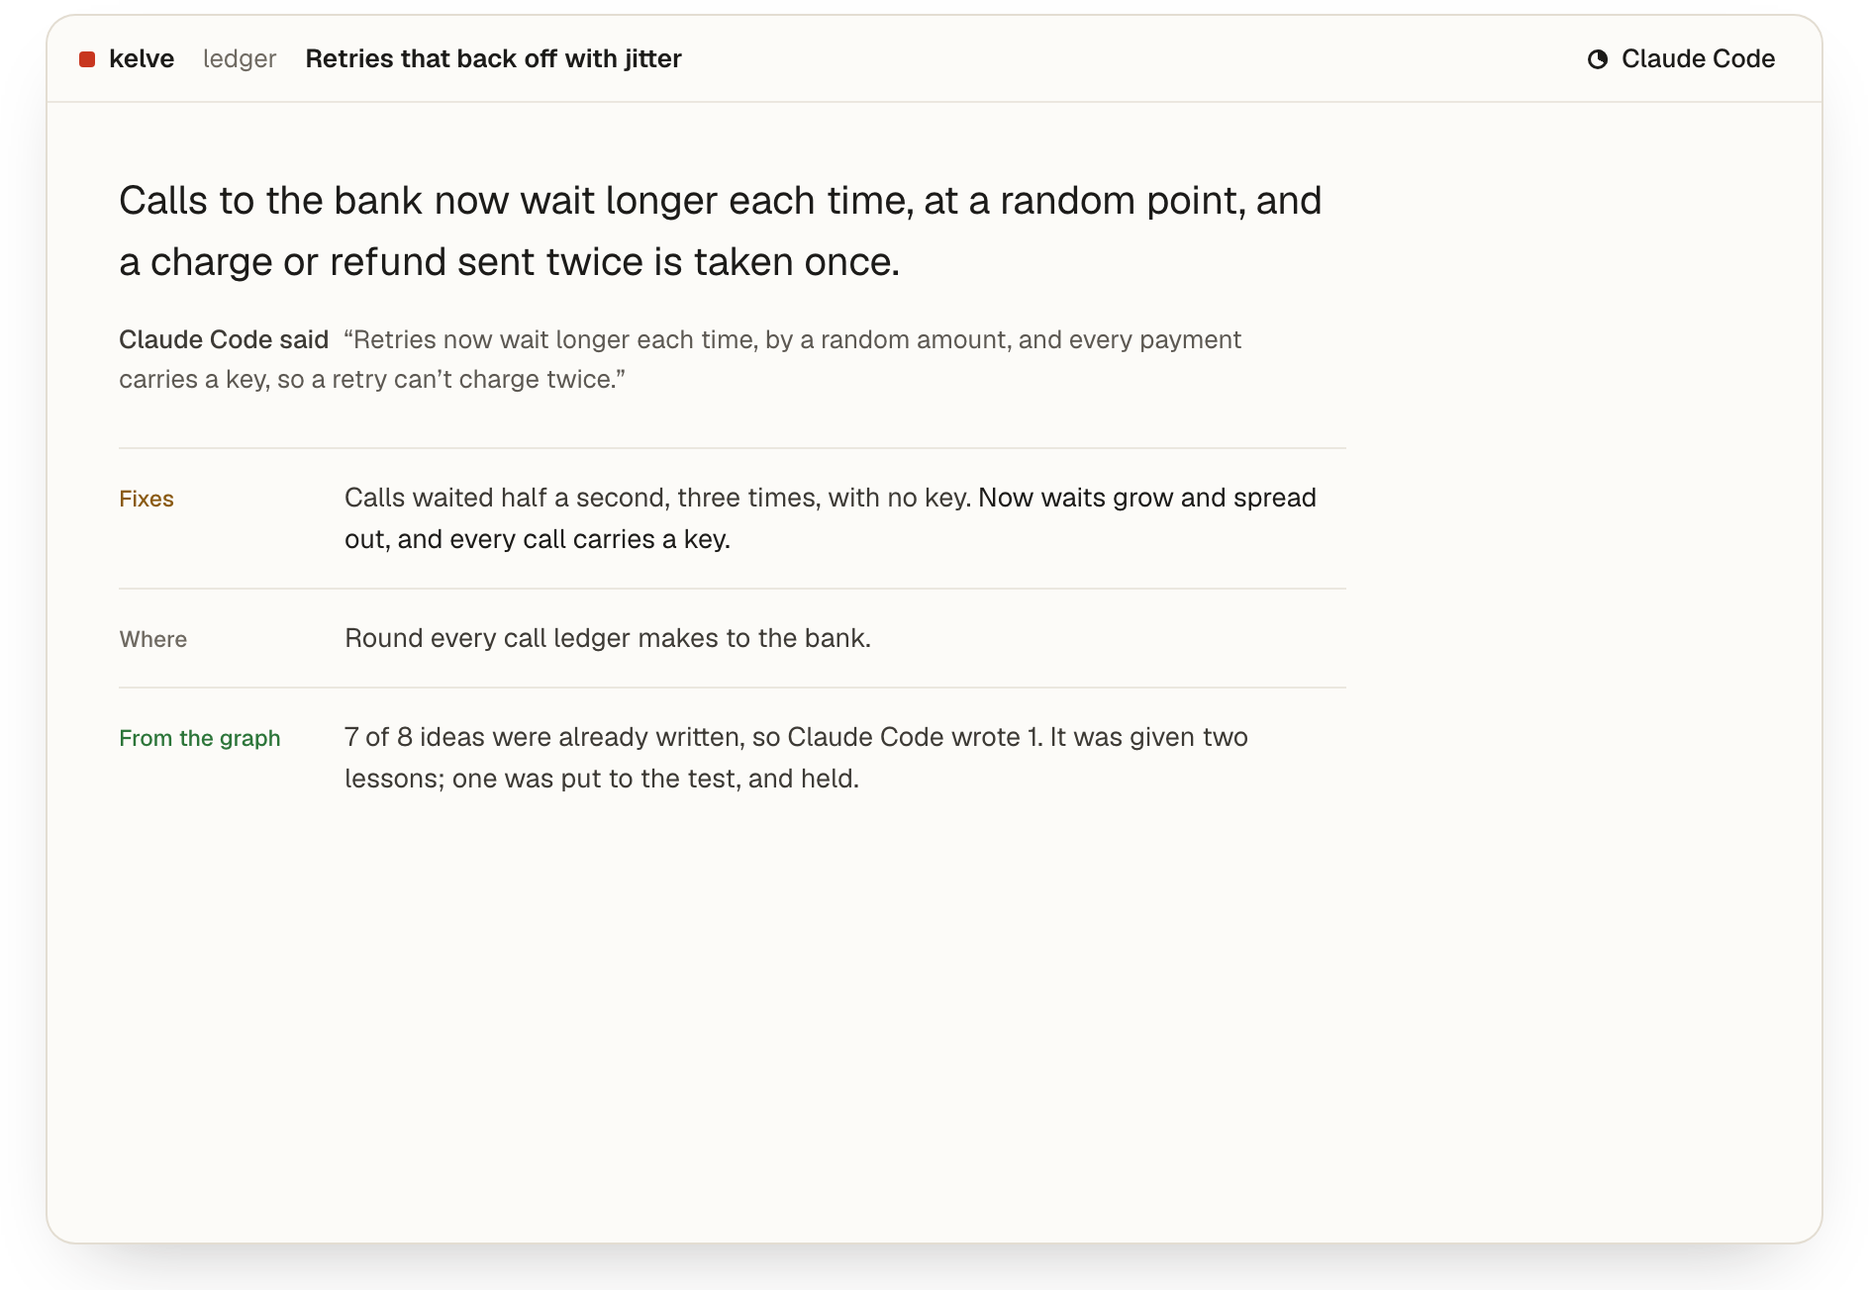
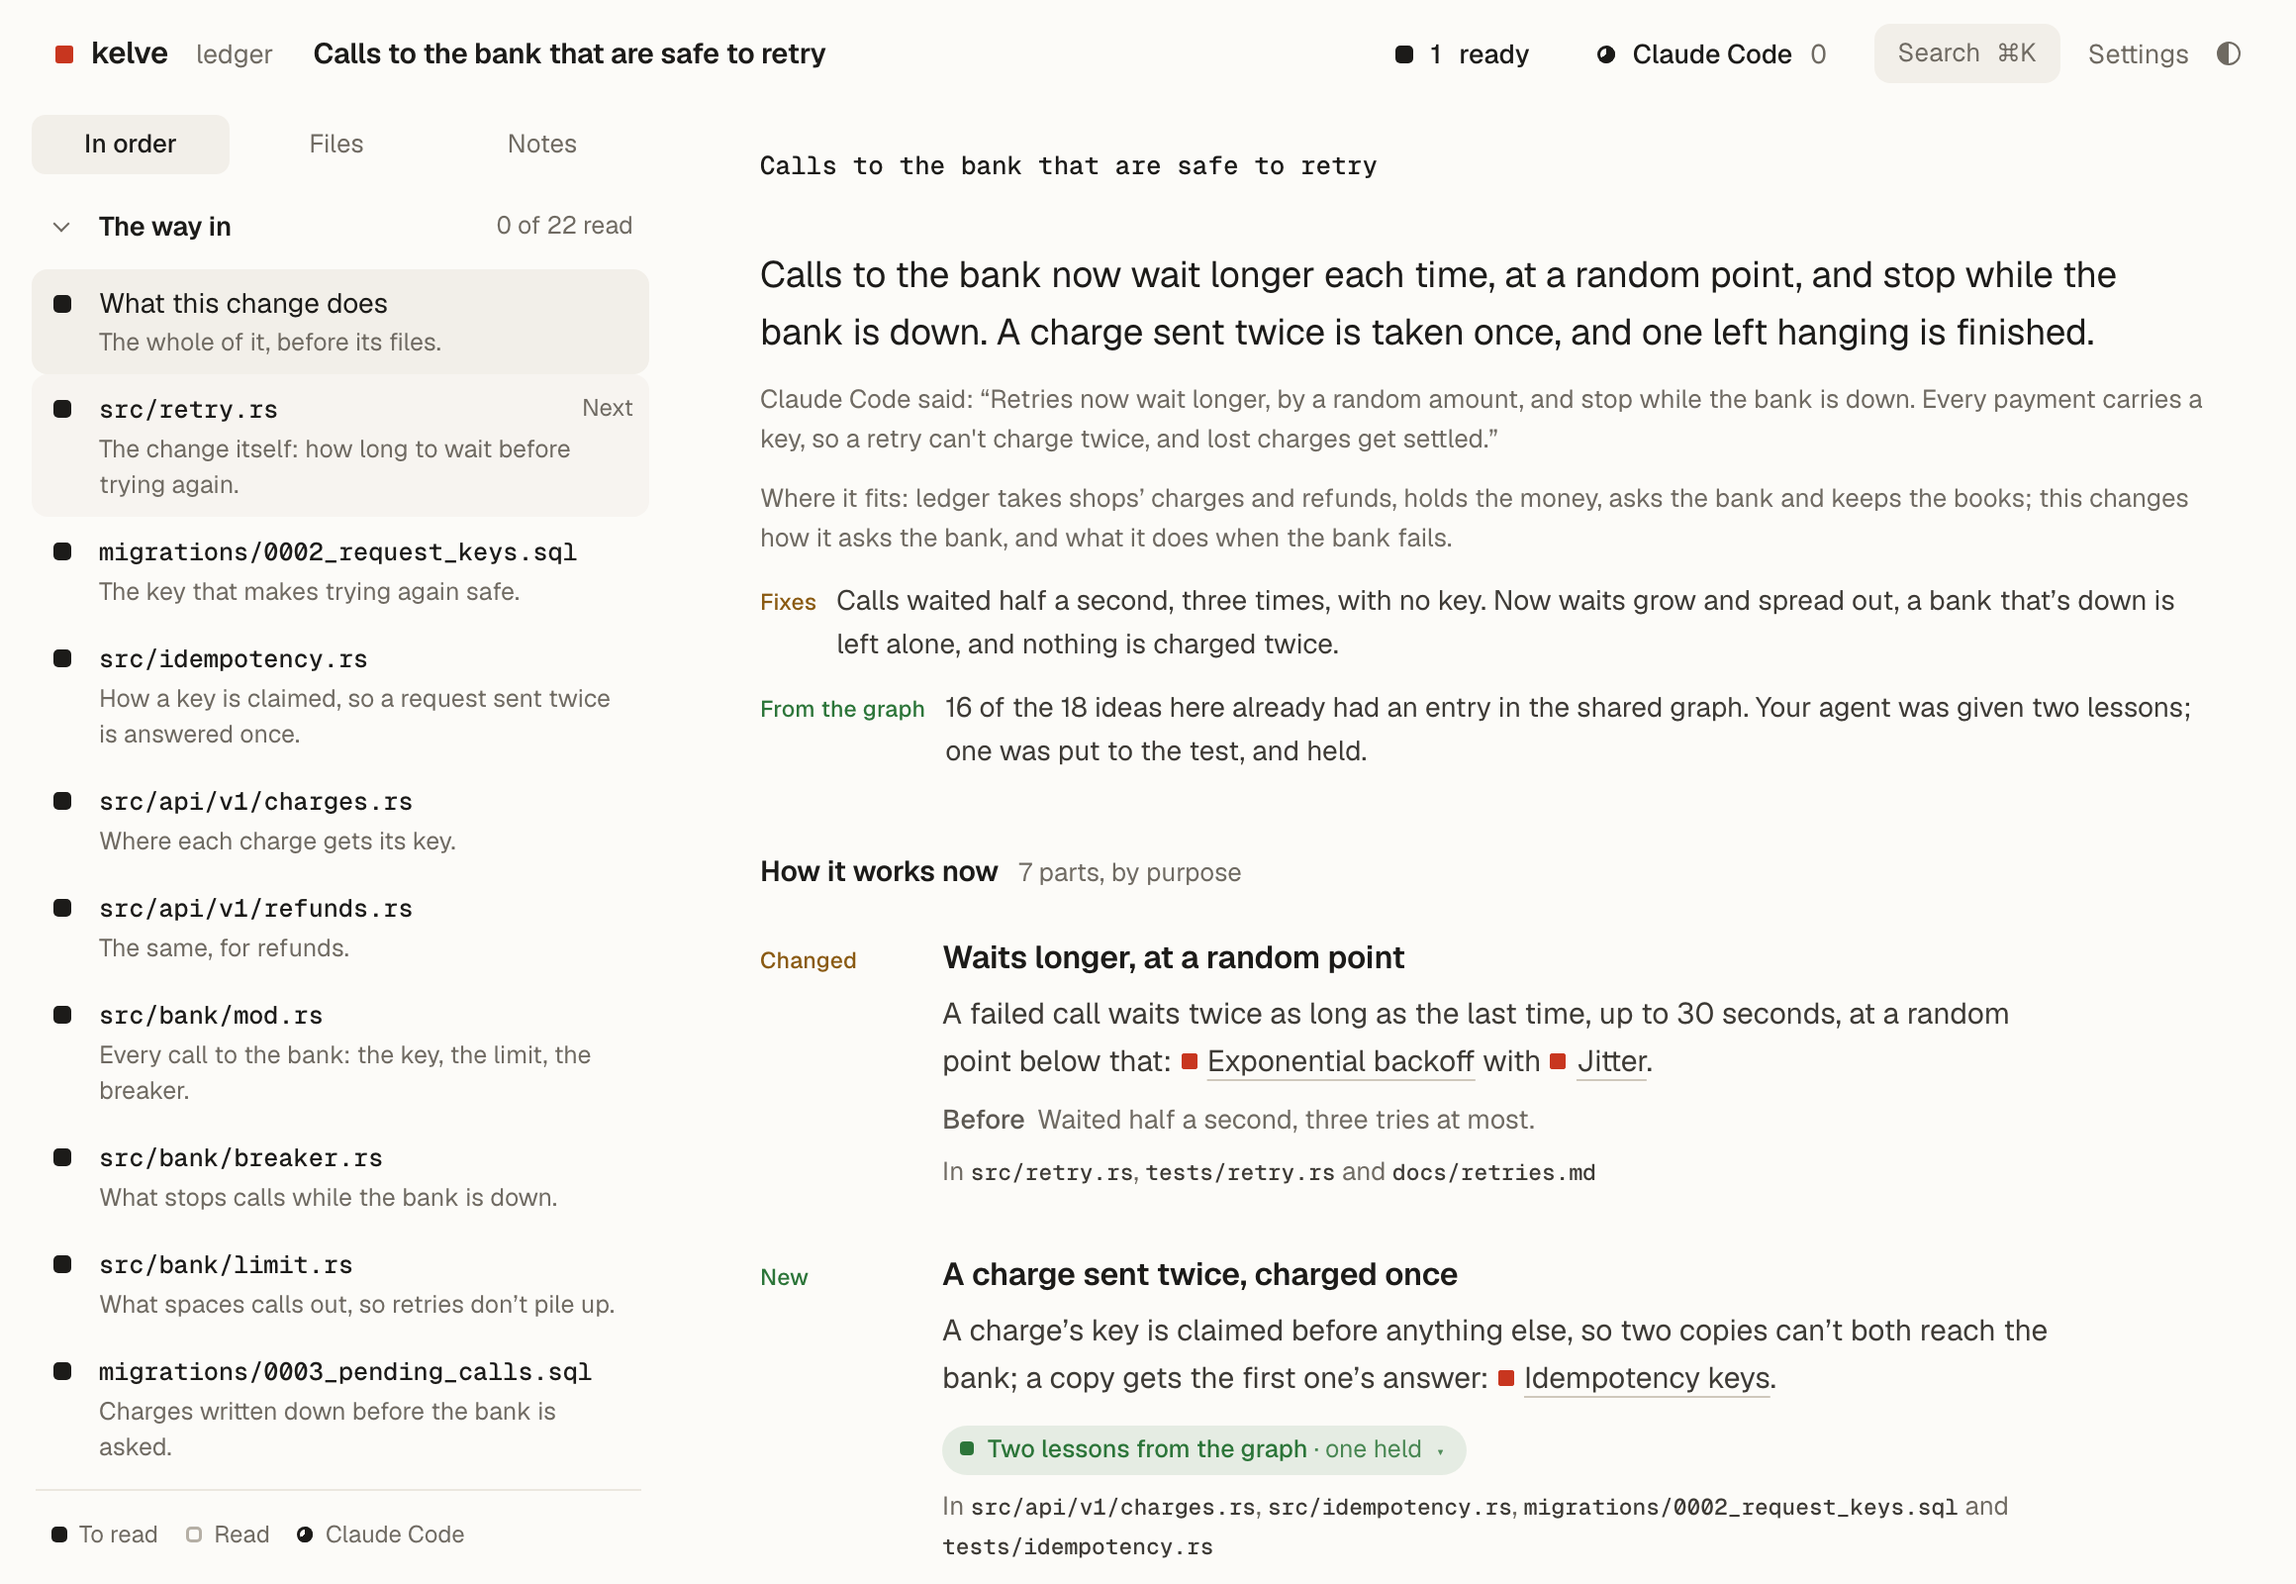
README: kelve's real screens, from the bigger example
The README showed kelve's story as an animation and drawn screens. Now
each section has a screenshot of the example as it is, light and dark,
retaken from the bigger change, with a picture of the code beside the
plain words, and the numbers to match: 1,194 lines, 16 of 18 ideas from
the shared graph, 21 files. Lessons say they come from the shared graph.

diff --git a/README.md b/README.md
@@ -15,11 +15,6 @@
   <a href="https://kelve.ai/docs/">Docs</a>
 </p>
 
-<picture>
-  <source media="(prefers-color-scheme: dark)" srcset=".github/assets/story-dark.gif">
-  <img src=".github/assets/story-light.gif" width="898" alt="kelve on a change an agent made: what it does in a sentence, then its files in order, a file in plain words, its code, and an idea’s entry opened beside it.">
-</picture>
-
 Ask your agent:
 
 ```
@@ -30,7 +25,7 @@ Works with Claude Code, Codex, Cursor and other agents.
 
 ---
 
-**212 lines. You didn’t write them. You’re about to merge them.**
+**1,194 lines. You didn’t write them. You’re about to merge them.**
 
 The diff shows you every line. It doesn’t show you what they do, or why. Here’s one change, the way kelve shows it.
 
@@ -40,7 +35,7 @@ One sentence for the whole change, before any files. Then what it did before, an
 
 <picture>
   <source media="(prefers-color-scheme: dark)" srcset=".github/assets/change-dark.png">
-  <img src=".github/assets/change-light.png" width="720" alt="A change’s own page: calls to the bank now wait longer each time, at a random point, and a charge sent twice is taken once; what it fixes, and how many of its ideas the shared graph had.">
+  <img src=".github/assets/change-light.png" width="880" alt="kelve open on a change’s own page: in a sentence, calls to the bank now wait longer each time, at a random point, and stop while the bank is down; a charge sent twice is taken once, and one left hanging is finished. Then what Claude Code said, where it fits, what it fixes, that 16 of its 18 ideas already had an entry in the shared graph, and How it works now, the first of its seven parts with a line on what it does. The way in is beside it.">
 </picture>
 
 ## Then the way in.
@@ -49,7 +44,7 @@ The files in the order that makes sense, each building on the last. Start at onc
 
 <picture>
   <source media="(prefers-color-scheme: dark)" srcset=".github/assets/way-in-dark.png">
-  <img src=".github/assets/way-in-light.png" width="720" alt="The way in: what this change does, then src/retry.rs, then the migration that makes trying again safe, each with a line on why to read it now.">
+  <img src=".github/assets/way-in-light.png" width="880" alt="The way in, beside the change’s page: what this change does, then src/retry.rs, then the migration that makes trying again safe, then the rest of its 21 files, each with a line on what it’s for.">
 </picture>
 
 ## Each file in plain words. Or the code. Or both.
@@ -58,7 +53,12 @@ What it’s for, then each part, in the order things happen. Switch to the code,
 
 <picture>
   <source media="(prefers-color-scheme: dark)" srcset=".github/assets/plainly-dark.png">
-  <img src=".github/assets/plainly-light.png" width="720" alt="src/retry.rs read plainly: what it’s for, then each part by its goal, with the code of one part shown in place under it.">
+  <img src=".github/assets/plainly-light.png" width="880" alt="src/retry.rs read plainly: what it does in a sentence, what uses it and what it fixes, then How it works, its four parts in the order they happen, each with a line on what it does, the lines it’s in, and Show the code.">
+</picture>
+
+<picture>
+  <source media="(prefers-color-scheme: dark)" srcset=".github/assets/code-dark.png">
+  <img src=".github/assets/code-light.png" width="880" alt="src/retry.rs as code: what the change added and took out, with squares beside the lines that use Exponential backoff and Jitter, and a line on each idea in the margin.">
 </picture>
 
 ## The ideas behind it, marked for you.
@@ -67,7 +67,7 @@ Each idea the work rests on gets a square, beside the lines that use it. Set how
 
 <picture>
   <source media="(prefers-color-scheme: dark)" srcset=".github/assets/marks-dark.png">
-  <img src=".github/assets/marks-light.png" width="720" alt="The code, with squares beside the lines that use Exponential backoff and Jitter, and what kelve marks: Learning overall, Rust at Learning, distributed systems at New.">
+  <img src=".github/assets/marks-light.png" width="880" alt="The code, with squares beside the lines that use Exponential backoff and Jitter, and what kelve marks beside it: Working overall, rust at Deep, distributed systems at New, postgresql and sql at Learning.">
 </picture>
 
 ## Go as deep as you like.
@@ -76,7 +76,7 @@ Click an idea and it opens beside the work. Click what it rests on, and that ope
 
 <picture>
   <source media="(prefers-color-scheme: dark)" srcset=".github/assets/deeper-dark.png">
-  <img src=".github/assets/deeper-light.png" width="720" alt="Jitter’s entry beside the code, written by Claude Code and being checked, with a chart of 100 retries arriving together without jitter and spread out with it; then Randomness, which it rests on, open beside it.">
+  <img src=".github/assets/deeper-light.png" width="880" alt="Jitter’s entry, on why to add randomness to when clients retry, with Randomness, which it rests on, open beside it: from the shared graph, checked against 4 sources.">
 </picture>
 
 ## Leave a note, for you or your agent.
@@ -85,7 +85,7 @@ Select lines and write. Keep it just for you, or with the work, for anyone who o
 
 <picture>
   <source media="(prefers-color-scheme: dark)" srcset=".github/assets/note-dark.png">
-  <img src=".github/assets/note-light.png" width="720" alt="A note on three lines of code, for Claude Code: refunds shouldn’t wait 30 seconds, cap them at 10.">
+  <img src=".github/assets/note-light.png" width="880" alt="A note under lines 31 to 33 of the code, for Claude Code, first on its list: refunds shouldn’t wait 30 seconds, cap them at 10.">
 </picture>
 
 ## Its list is your queue.
@@ -94,16 +94,16 @@ Everything you’ve asked of your agent, in order. Add to it while it works. Mov
 
 <picture>
   <source media="(prefers-color-scheme: dark)" srcset=".github/assets/list-dark.png">
-  <img src=".github/assets/list-light.png" width="720" alt="Claude Code’s list: reading the change’s files, 5 of 8; next, the note about refunds and an entry; ready for you, Jitter’s entry.">
+  <img src=".github/assets/list-light.png" width="880" alt="Claude Code’s list beside a file, while it works: now, reading the way in, 2 of 21, and folder pages for the way in; next, folder pages for the rest, and a note for Claude Code; ready for you, Jitter’s entry.">
 </picture>
 
 ## See what it learned.
 
-Agents write down what they learn the hard way, for the next one. kelve shows the lessons yours was given, whether they held, and what it learned itself.
+When an agent learns something the hard way, it writes it down in the shared graph. Your agent is given those lessons as it works. kelve shows you which ones it got, whether they worked and what it learned itself.
 
 <picture>
   <source media="(prefers-color-scheme: dark)" srcset=".github/assets/lesson-dark.png">
-  <img src=".github/assets/lesson-light.png" width="720" alt="A part of the change with the two lessons Claude Code was given: one, to claim a charge’s key with an insert before charging, held. Below it, what Claude Code learned itself: give each try its own timeout.">
+  <img src=".github/assets/lesson-light.png" width="880" alt="A part of the change with the two lessons from the graph Claude Code was given, opened: one, to claim a charge’s key with an insert before charging, held; the other wasn’t put to the test. Below it, the parts that stop calling a bank that’s down and space calls out.">
 </picture>
 
 ## Not only changes.
@@ -116,7 +116,7 @@ Show me this repo in kelve.
 
 ## Most ideas are already written.
 
-Explanations come from one shared graph of how things work, at `graph.kelve.ai`, written by everyone’s agents and checked against their sources. So most open at once.
+Explanations come from one shared graph of how things work, at `graph.kelve.ai`, written by everyone’s agents and checked against their sources. So most open at once. It also holds the lessons other agents learned along the way too which are given to yours as it works.
 
 - **Never your work.** Your code, files and notes stay with you.
 - **What your agent writes and learns is added,** without your name. Your reads never say who you are.
